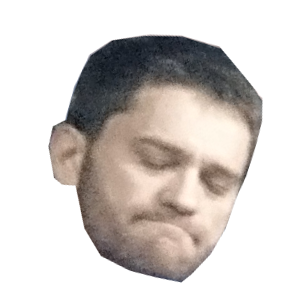
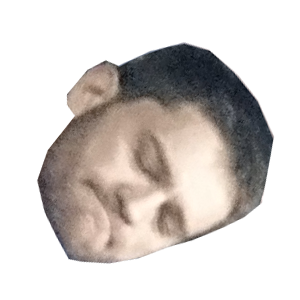
Exceotion0-360 and math for rotation

diff --git a/app/src/main/java/com/daemonize/daemondevapp/Game.java b/app/src/main/java/com/daemonize/daemondevapp/Game.java
@@ -55,11 +55,12 @@ public class Game {
     private Bitmap fieldImageTower;
     private Bitmap fieldImageTowerDen;
 
-    private List<DummyDaemon> towers = new ArrayList<>();
+    private List<TowerDaemon> towers = new ArrayList<>();
 
     private Queue<DaemonView> enemyViews;
     private Set<EnemyDoubleDaemon> activeEnemies = new HashSet<>();
     private List<Bitmap> enemySprite;
+    private List<Bitmap> towerSprite;
 
     private DummyDaemon enemyGenerator;
     private long enemyCounter;
@@ -81,6 +82,10 @@ public class Game {
 
     public Game setEnemySprite(List<Bitmap> enemySprite) {
         this.enemySprite = enemySprite;
+        return this;
+    }
+    public Game setTowerSprite(List<Bitmap> towerSprite) {
+        this.towerSprite = towerSprite;
         return this;
     }
 
@@ -128,7 +133,7 @@ public class Game {
             enemy.stop();
         }
 
-        for (DummyDaemon tower : towers) {
+        for (TowerDaemon tower : towers) {
             tower.stop();
         }
 
@@ -243,65 +248,65 @@ public class Game {
             guiConsumer.consume(()-> viewMatrix[field.getRow()][field.getColumn()].setImage(image));
 
             if (b) {
-                DummyDaemon tower = new DummyDaemon(gameConsumer, 1200).setClosure(ret -> {
+//                DummyDaemon tower = new DummyDaemon(gameConsumer, 1200).setClosure(ret -> {
+//
+//                    for (EnemyDoubleDaemon enemy : activeEnemies) {
+//
+//                        Pair<Float, Float> enemyCoord = enemy.getPrototype().getLastCoordinates();
+//
+//                        if (Math.abs((float) field.getCenterX() - enemyCoord.first) < 200
+//                                && Math.abs((float) field.getCenterY() - enemyCoord.second) < 200) {
+//                            fireBullet(Pair.create((float) field.getCenterX(), (float) field.getCenterY()), enemy);
+//                            break;
+//                        }
+//                    }
+//
+//                });
+//
+//                tower.start();
+//                //field.setTower(tower);
+//                towers.add(tower);
 
-                    for (EnemyDoubleDaemon enemy : activeEnemies) {
 
-                        Pair<Float, Float> enemyCoord = enemy.getPrototype().getLastCoordinates();
+                TowerDaemon towerDaemon = new TowerDaemon(
+                        gameConsumer,
+                        guiConsumer,
+                        new Tower(
+                                towerSprite,
+                                Pair.create(x, y),
+                                200
+                        )
+                ).setName("TowerX:" + x + "Y:" + y);
 
-                        if (Math.abs((float) field.getCenterX() - enemyCoord.first) < 200
-                                && Math.abs((float) field.getCenterY() - enemyCoord.second) < 200) {
-                            fireBullet(Pair.create((float) field.getCenterX(), (float) field.getCenterY()), enemy);
-                            break;
-                        }
-                    }
+                towers.add(towerDaemon);
 
+                towerDaemon.setAnimateSideQuest().setClosure(aReturn -> {//gui consumer //TODO make a separate closure class
+                    ImageMover.PositionedBitmap posBmp = aReturn.get();
+                    towerDaemon.getView().setX(posBmp.positionX);
+                    towerDaemon.getView().setY(posBmp.positionY);
+                    towerDaemon.getView().setImage(posBmp.image);
                 });
 
-                tower.start();
-                //field.setTower(tower);
-                towers.add(tower);
+                towerDaemon.start();
 
+                List<EnemyDoubleDaemon> activeEnemyList = new LinkedList<>();
 
-//                TowerDaemon towerDaemon = new TowerDaemon(
-//                        gameConsumer,
-//                        guiConsumer,
-//                        new Tower(
-//                                towerSprite,
-//                                Pair.create(x, y),
-//                                200
-//                        )
-//                ).setName("TowerX:" + x + "Y:" + y);
-//
-//                towers.add(towerDaemon);
-//
-//                towerDaemon.setAnimateSideQuest().setClosure(aReturn -> {//gui consumer //TODO make a separate closure class
-//                    ImageMover.PositionedBitmap posBmp = aReturn.get();
-//                    towerDaemon.getView().setX(posBmp.positionX);
-//                    towerDaemon.getView().setY(posBmp.positionY);
-//                    towerDaemon.getView().setImage(posBmp.image);
-//                });
-//
-//                towerDaemon.start();
-//
-//                List<EnemyDoubleDaemon> activeEnemyList = new LinkedList<>();
-//
-//                for(EnemyDoubleDaemon enemy : activeEnemies) {
-//                    activeEnemyList.add(enemy);
-//                }
-//
-//                towerDaemon.scan(activeEnemyList, new Closure<EnemyDoubleDaemon>() {
-//                    @Override
-//                    public void onReturn(Return<EnemyDoubleDaemon> aReturn) {
-//
-//                        fireBullet(towerDaemon.getPrototype().getLastCoordinates(), aReturn.get());
-//                        List<EnemyDoubleDaemon> activeEnemyList = new LinkedList<>();
-//                        for(EnemyDoubleDaemon enemy : activeEnemies) {
-//                            activeEnemyList.add(enemy);
-//                        }
-//                        towerDaemon.scan(activeEnemyList, this);
-//                    }
-//                });
+                for(EnemyDoubleDaemon enemy : activeEnemies) {
+                    activeEnemyList.add(enemy);
+                }
+
+                towerDaemon.scan(activeEnemyList, new Closure<EnemyDoubleDaemon>() {
+                    @Override
+                    public void onReturn(Return<EnemyDoubleDaemon> aReturn) {
+
+                        fireBullet(towerDaemon.getPrototype().getLastCoordinates(), aReturn.get());
+                        List<EnemyDoubleDaemon> activeEnemyList = new LinkedList<>();
+                        for(EnemyDoubleDaemon enemy : activeEnemies) {
+                            activeEnemyList.add(enemy);
+                        }
+                        towerDaemon.scan(activeEnemyList, this);
+                    }
+                });
             }
         });
 

diff --git a/app/src/main/java/com/daemonize/daemondevapp/MainActivity.java b/app/src/main/java/com/daemonize/daemondevapp/MainActivity.java
@@ -246,6 +246,44 @@ public class MainActivity extends AppCompatActivity {
             explosionSprite.add(Bitmap.createScaledBitmap(BitmapFactory.decodeStream(getAssets().open("Explosion33.png")), 80, 80, false));
 
 
+            List<Bitmap> towerSprite = new ArrayList<>();
+            towerSprite.add(Bitmap.createScaledBitmap(BitmapFactory.decodeStream(getAssets().open("Exceptione0.png")), 80, 80, false));
+            towerSprite.add(Bitmap.createScaledBitmap(BitmapFactory.decodeStream(getAssets().open("Exceptione10.png")), 80, 80, false));
+            towerSprite.add(Bitmap.createScaledBitmap(BitmapFactory.decodeStream(getAssets().open("Exceptione20.png")), 80, 80, false));
+            towerSprite.add(Bitmap.createScaledBitmap(BitmapFactory.decodeStream(getAssets().open("Exceptione30.png")), 80, 80, false));
+            towerSprite.add(Bitmap.createScaledBitmap(BitmapFactory.decodeStream(getAssets().open("Exceptione40.png")), 80, 80, false));
+            towerSprite.add(Bitmap.createScaledBitmap(BitmapFactory.decodeStream(getAssets().open("Exceptione50.png")), 80, 80, false));
+            towerSprite.add(Bitmap.createScaledBitmap(BitmapFactory.decodeStream(getAssets().open("Exceptione60.png")), 80, 80, false));
+            towerSprite.add(Bitmap.createScaledBitmap(BitmapFactory.decodeStream(getAssets().open("Exceptione70.png")), 80, 80, false));
+            towerSprite.add(Bitmap.createScaledBitmap(BitmapFactory.decodeStream(getAssets().open("Exceptione80.png")), 80, 80, false));
+            towerSprite.add(Bitmap.createScaledBitmap(BitmapFactory.decodeStream(getAssets().open("Exceptione90.png")), 80, 80, false));
+            towerSprite.add(Bitmap.createScaledBitmap(BitmapFactory.decodeStream(getAssets().open("Exceptione100.png")), 80, 80, false));
+            towerSprite.add(Bitmap.createScaledBitmap(BitmapFactory.decodeStream(getAssets().open("Exceptione110.png")), 80, 80, false));
+            towerSprite.add(Bitmap.createScaledBitmap(BitmapFactory.decodeStream(getAssets().open("Exceptione120.png")), 80, 80, false));
+            towerSprite.add(Bitmap.createScaledBitmap(BitmapFactory.decodeStream(getAssets().open("Exceptione130.png")), 80, 80, false));
+            towerSprite.add(Bitmap.createScaledBitmap(BitmapFactory.decodeStream(getAssets().open("Exceptione140.png")), 80, 80, false));
+            towerSprite.add(Bitmap.createScaledBitmap(BitmapFactory.decodeStream(getAssets().open("Exceptione150.png")), 80, 80, false));
+            towerSprite.add(Bitmap.createScaledBitmap(BitmapFactory.decodeStream(getAssets().open("Exceptione160.png")), 80, 80, false));
+            towerSprite.add(Bitmap.createScaledBitmap(BitmapFactory.decodeStream(getAssets().open("Exceptione170.png")), 80, 80, false));
+            towerSprite.add(Bitmap.createScaledBitmap(BitmapFactory.decodeStream(getAssets().open("Exceptione180.png")), 80, 80, false));
+            towerSprite.add(Bitmap.createScaledBitmap(BitmapFactory.decodeStream(getAssets().open("Exceptione190.png")), 80, 80, false));
+            towerSprite.add(Bitmap.createScaledBitmap(BitmapFactory.decodeStream(getAssets().open("Exceptione200.png")), 80, 80, false));
+            towerSprite.add(Bitmap.createScaledBitmap(BitmapFactory.decodeStream(getAssets().open("Exceptione210.png")), 80, 80, false));
+            towerSprite.add(Bitmap.createScaledBitmap(BitmapFactory.decodeStream(getAssets().open("Exceptione220.png")), 80, 80, false));
+            towerSprite.add(Bitmap.createScaledBitmap(BitmapFactory.decodeStream(getAssets().open("Exceptione230.png")), 80, 80, false));
+            towerSprite.add(Bitmap.createScaledBitmap(BitmapFactory.decodeStream(getAssets().open("Exceptione240.png")), 80, 80, false));
+            towerSprite.add(Bitmap.createScaledBitmap(BitmapFactory.decodeStream(getAssets().open("Exceptione250.png")), 80, 80, false));
+            towerSprite.add(Bitmap.createScaledBitmap(BitmapFactory.decodeStream(getAssets().open("Exceptione260.png")), 80, 80, false));
+            towerSprite.add(Bitmap.createScaledBitmap(BitmapFactory.decodeStream(getAssets().open("Exceptione270.png")), 80, 80, false));
+            towerSprite.add(Bitmap.createScaledBitmap(BitmapFactory.decodeStream(getAssets().open("Exceptione280.png")), 80, 80, false));
+            towerSprite.add(Bitmap.createScaledBitmap(BitmapFactory.decodeStream(getAssets().open("Exceptione290.png")), 80, 80, false));
+            towerSprite.add(Bitmap.createScaledBitmap(BitmapFactory.decodeStream(getAssets().open("Exceptione300.png")), 80, 80, false));
+            towerSprite.add(Bitmap.createScaledBitmap(BitmapFactory.decodeStream(getAssets().open("Exceptione310.png")), 80, 80, false));
+            towerSprite.add(Bitmap.createScaledBitmap(BitmapFactory.decodeStream(getAssets().open("Exceptione320.png")), 80, 80, false));
+            towerSprite.add(Bitmap.createScaledBitmap(BitmapFactory.decodeStream(getAssets().open("Exceptione330.png")), 80, 80, false));
+            towerSprite.add(Bitmap.createScaledBitmap(BitmapFactory.decodeStream(getAssets().open("Exceptione340.png")), 80, 80, false));
+            towerSprite.add(Bitmap.createScaledBitmap(BitmapFactory.decodeStream(getAssets().open("Exceptione350.png")), 80, 80, false));
+
             //TODO unnecessary background
             backgroundImg = Bitmap.createScaledBitmap(BitmapFactory.decodeStream(getAssets().open("maphi.jpg")), borderX, borderY, false);
             background.setImageBitmap(backgroundImg);
@@ -269,6 +307,7 @@ public class MainActivity extends AppCompatActivity {
                     .setFieldImageTower(Bitmap.createScaledBitmap(BitmapFactory.decodeStream(getAssets().open("Exceptione.png")), 80, 80, false))
                     .setFieldImageTowerDen(Bitmap.createScaledBitmap(BitmapFactory.decodeStream(getAssets().open("red.png")), 80, 80, false))
                     .setEnemySprite(sprite)
+                    .setTowerSprite(towerSprite)
                     .setBulletSprite(bulletSprite)
                     .setExplodeSprite(explosionSprite)
                     .setBorders(borderX, borderY);

diff --git a/app/src/main/java/com/daemonize/daemondevapp/Tower.java b/app/src/main/java/com/daemonize/daemondevapp/Tower.java
@@ -69,20 +69,57 @@ public class Tower extends CachedSpriteImageTranslationMover {
     public void setDirectionForRotation(float x, float y) throws InterruptedException {
 
         //TODO math: calculate the currentAngle
-        float dtAngle = x+y;
-        targetAngle += dtAngle;
+        float dx = lastX - x;
+        float dy = lastY - y;
+        float c = (float) Math.sqrt(dx * dx + dy * dy);
+        if (dx > 0 && dy > 0) {
+            // II kvadrant
+            int alfa = (int) Math.asin(dx / c);
+            targetAngle = 90 + alfa;
+        }else if (dx < 0 && dy > 0) {
+            // I kvadrant
+            int alfa = (int) Math.asin(dx / c);
+            targetAngle = 90 - alfa;
+        }else if (dx > 0 && dy < 0) {
+            // III kvadrant
+            int alfa = (int) Math.asin(dx / c);
+            targetAngle = 180 + alfa;
+        }else if (dx < 0 && dy < 0) {
+            // IV kvadrant
+            int alfa = (int) Math.asin(dx / c);
+            targetAngle = 270 + alfa;
+        }
 
+        boolean plus = true;//targetAngle >= currentAngle;//TODO cover when target - current <10
 
-        boolean plus = targetAngle >= currentAngle;//TODO cover when target - current <10
+        double deltaAlfa = targetAngle - currentAngle;
+
+        if (Math.abs(deltaAlfa) > 180 ) {
+            if (deltaAlfa > 0) {
+                plus = false;
+            } else {
+                plus = true;
+            }
+        }
 
         List<Bitmap> rotationSprite = new LinkedList<>();
-        int counterAngle = currentAngle;
+        double counterAngle = currentAngle;
         while (!(Math.abs(counterAngle - targetAngle) < 10)) {
             rotationSprite.add(angleToImageMap.get(counterAngle));
-            if (plus)
-                counterAngle += 10;
-            else
-                counterAngle -= 10;
+            if (plus) {
+                if ( currentAngle >= 350) {
+                    currentAngle = 0;
+                } else {
+                    counterAngle += 10;
+                }
+            }else {
+                if ( currentAngle <= 10) {
+                    currentAngle = 359;
+                } else {
+                    counterAngle -= 10;
+                }
+            }
+
         }
 
         currentAngle = targetAngle;
